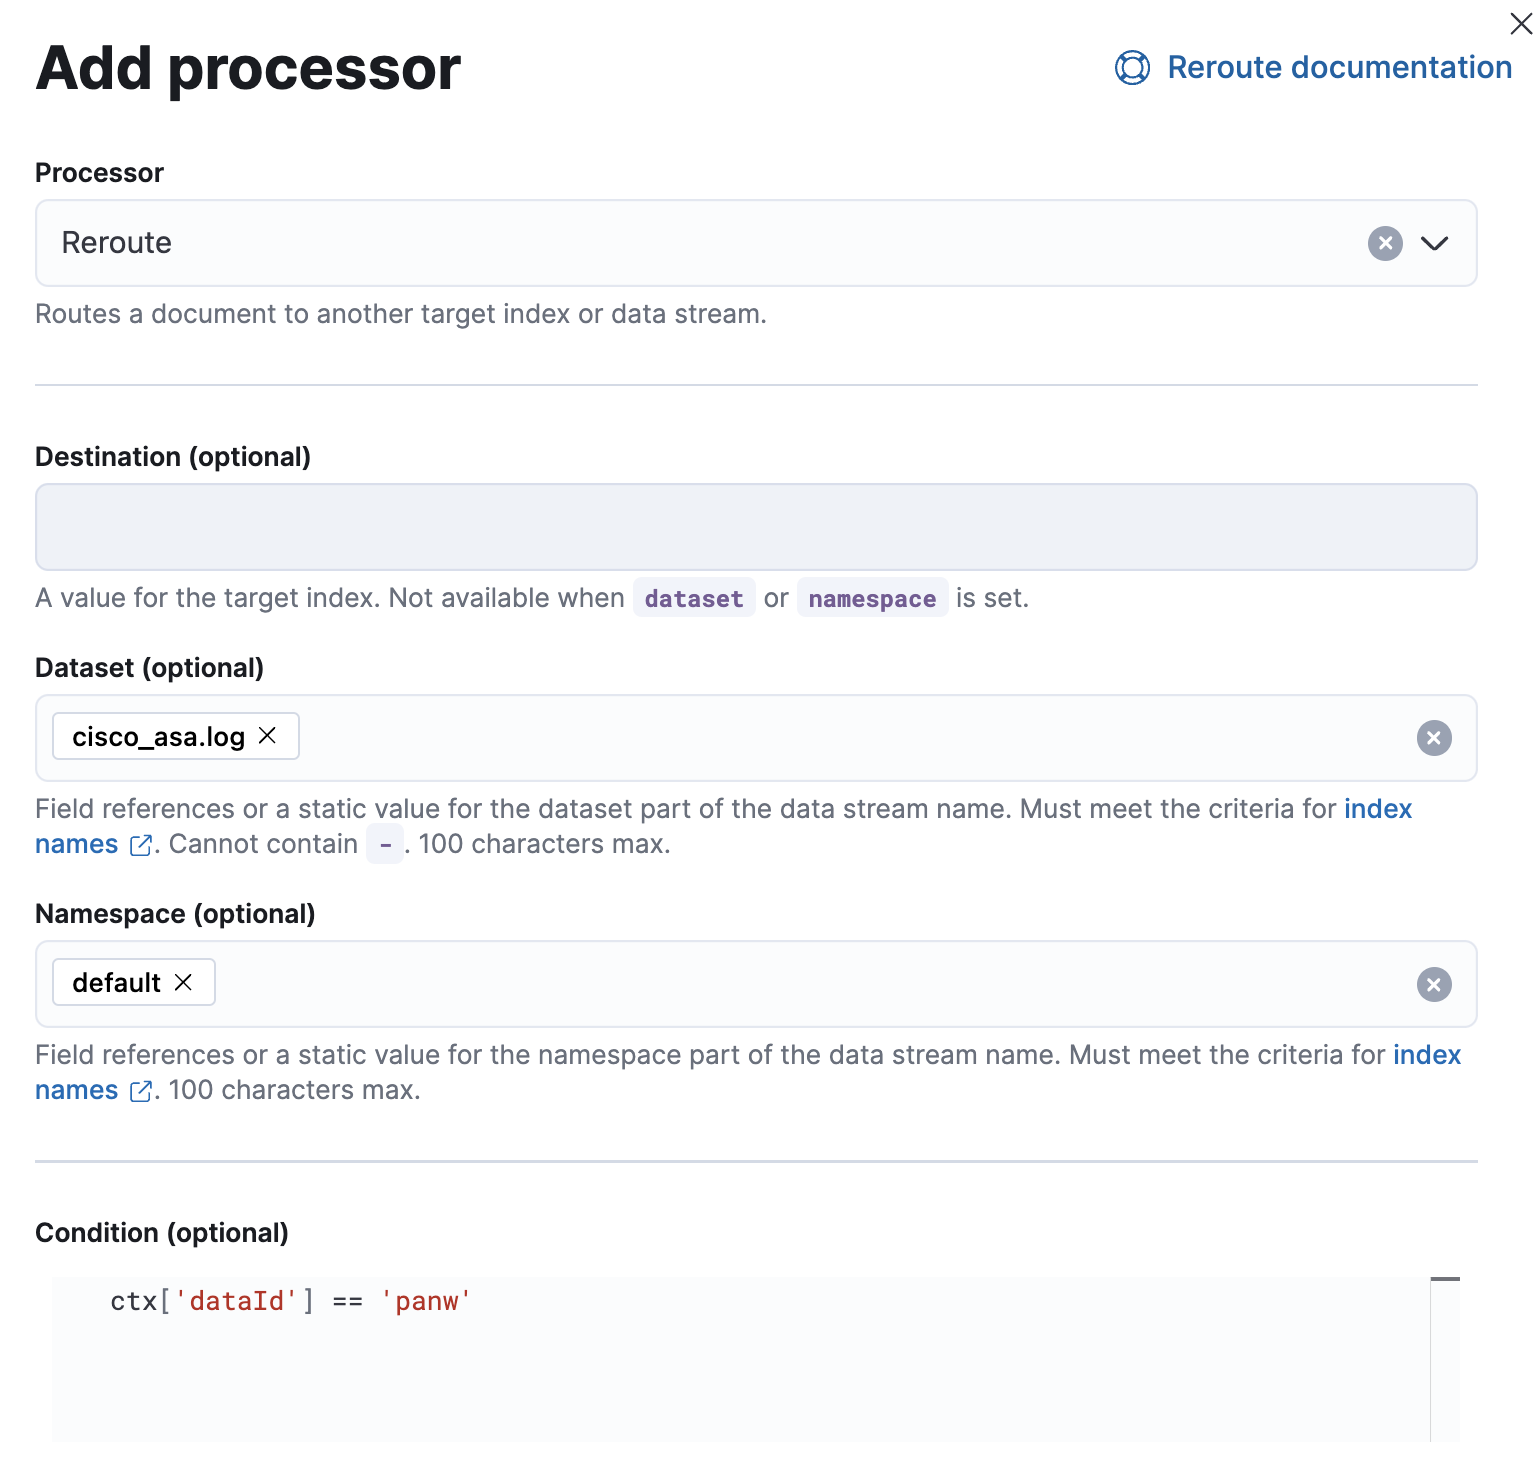
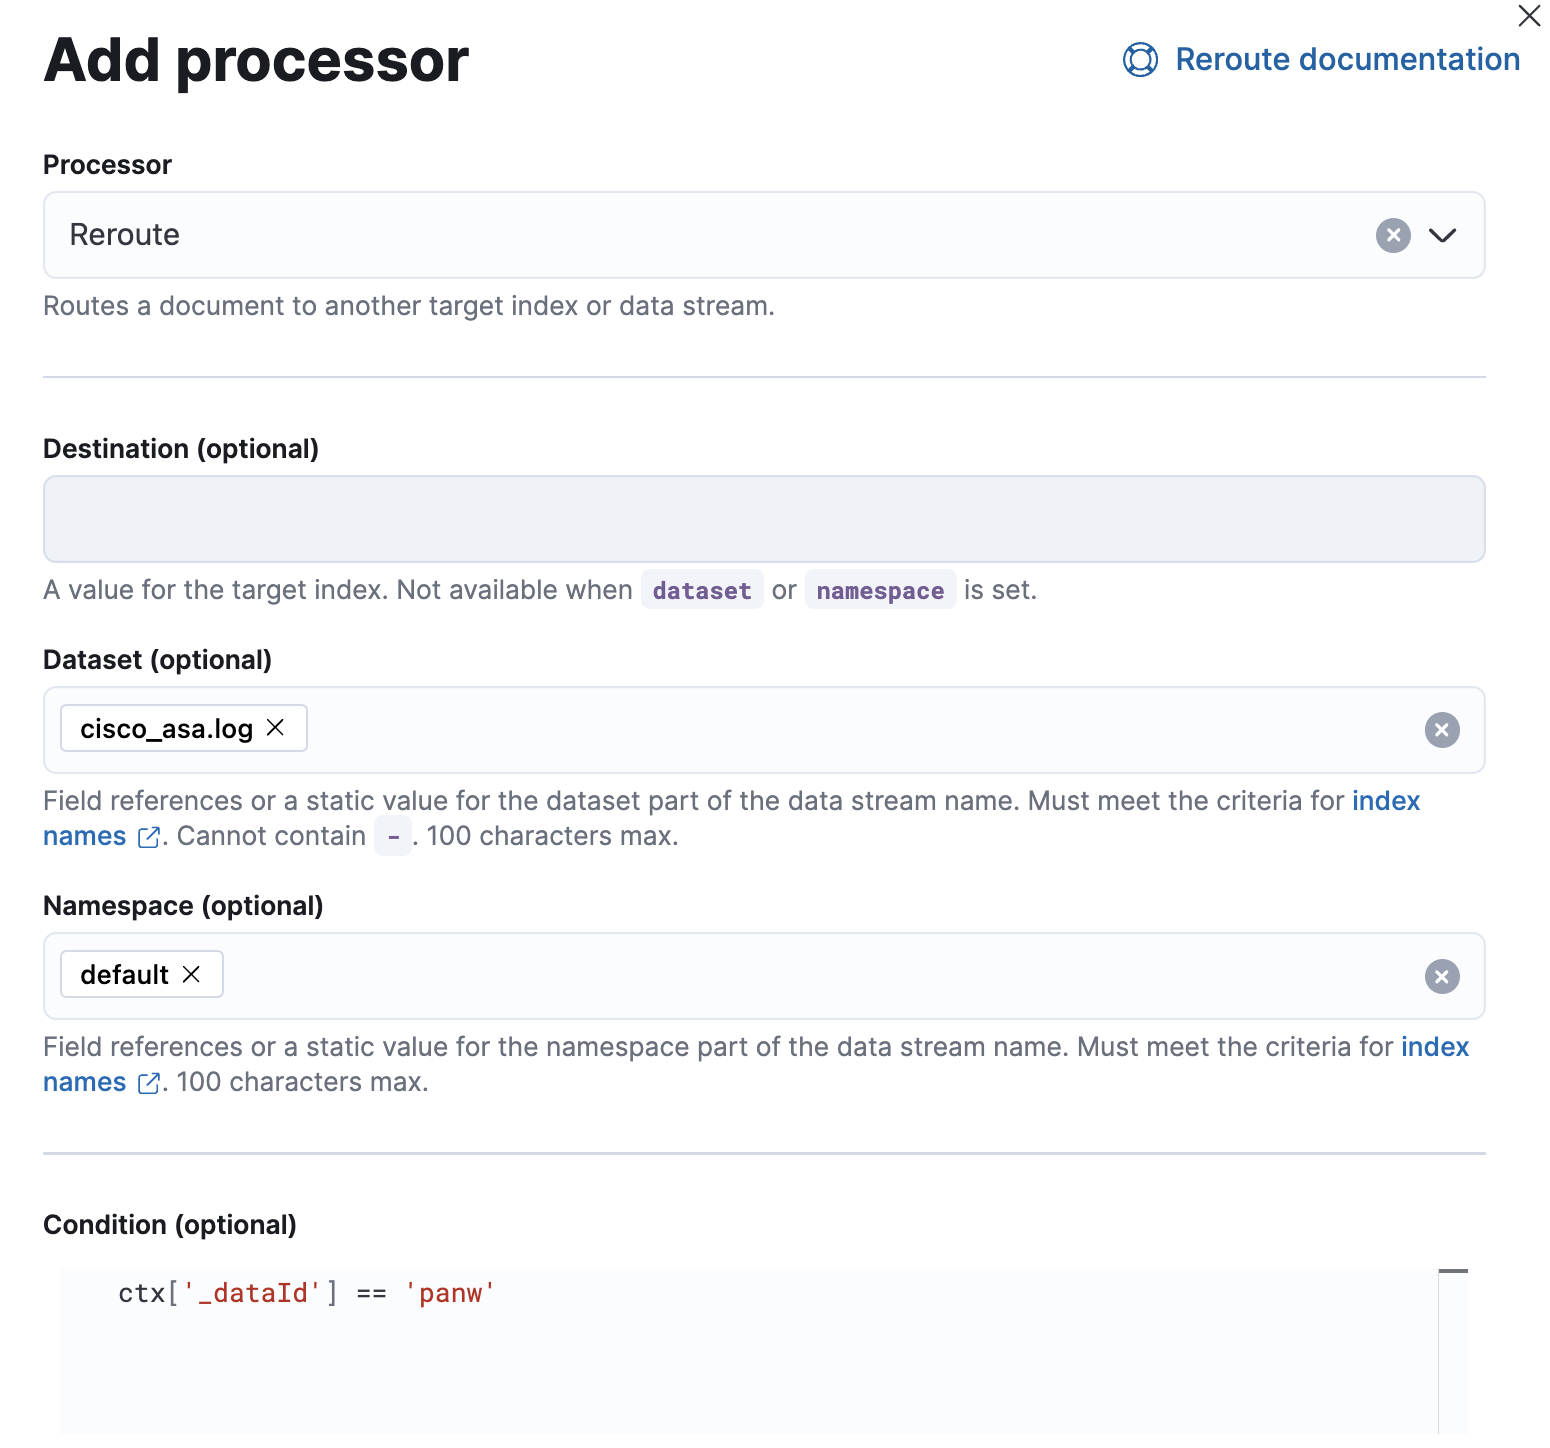
adding the _

diff --git a/packages/cribl/docs/README.md b/packages/cribl/docs/README.md
@@ -28,7 +28,7 @@ The Cribl integration offers users a way to ingest logs from either of Cribl's E
 
     2. Add informational field to Cribl Source
 
-        Configure the Cribl Source to specify the source of the data in the `dataId` field.
+        Configure the Cribl Source to specify the source of the data in the `_dataId` field.
 
         ![Configure Cribl Source fields](../img/cribl-source-fields.png)
 
@@ -47,7 +47,7 @@ The Cribl integration offers users a way to ingest logs from either of Cribl's E
 
             2. Set the **Namespace** to `default`.
 
-            3. Fill in the conditional to specify the Cribl `dataId` source field. 
+            3. Fill in the conditional to specify the Cribl `_dataId` source field. 
 
             ![Reroute processor](../img/custom-pipeline-reroute-processor.png)
 
